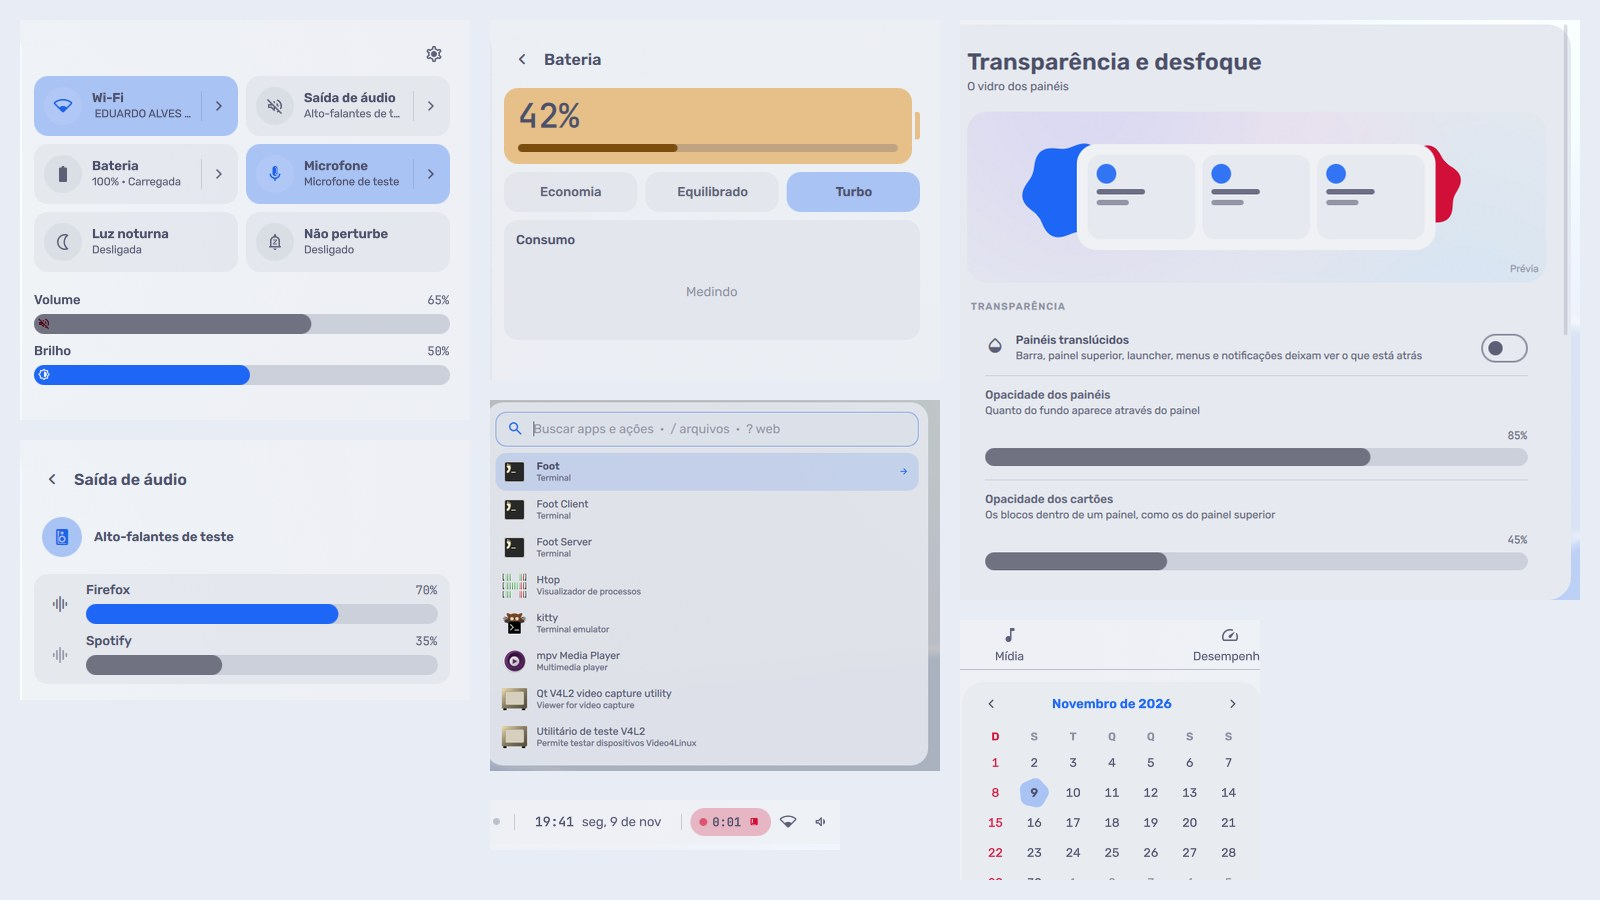
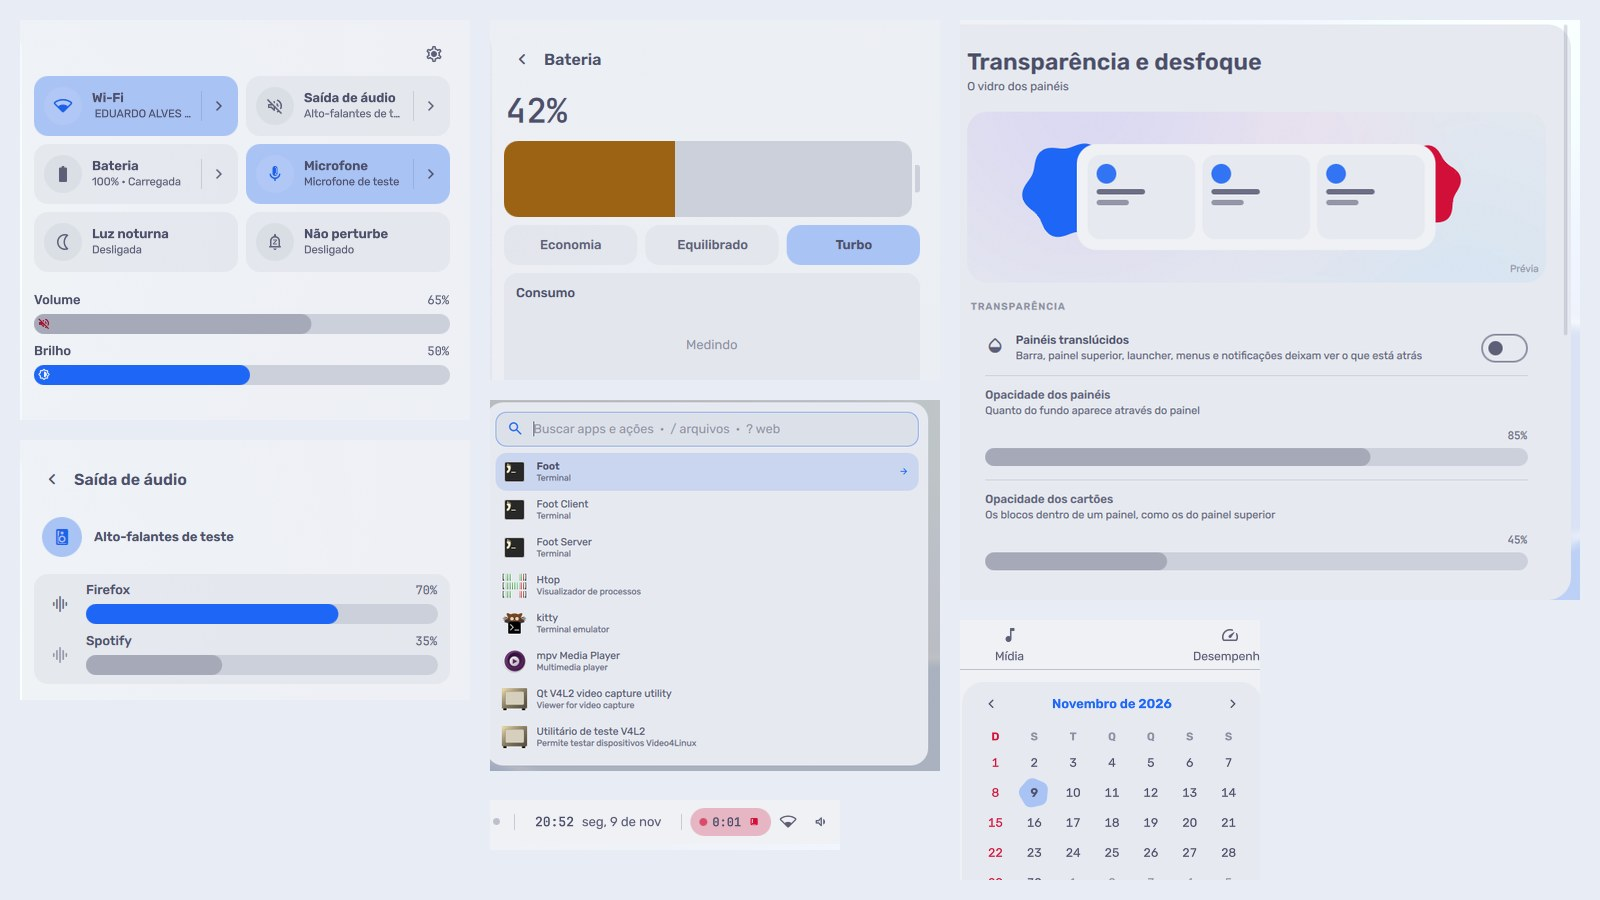
Cores: as capturas e as Pendências depois dos ajustes da bateria, do mudo, do everforest e da linha desativada

diff --git a/Lucerna — Pendências.md b/Lucerna — Pendências.md
@@ -24,7 +24,7 @@ Os marcos seguem esta ordem; cada um só começa quando o anterior fecha. Os ite
     - [ ] A **barra em repouso desfocando a tela inteira** na bateria ("Sobras do desfoque" e "Sobras dos painéis da moldura").
     - [x] A **borda borrada em escala fracionária.** Feito na base robusta (Tarefa 12, branch `feat/base-robusta`): a suavização do `frame.frag` por `fwidth`, as beiras ao pixel físico e as linhas de 1 px como `Pixel.hairline`; depois, a escala interna do shell pelas medidas do tema (Tarefa 13). Detalhes em "Sobras dos painéis da moldura".
     - [ ] O **painel superior parado redesenhando a ~67 fps** ("Sobras do desfoque" e "Sobras dos painéis da moldura").
-  - [x] **Cores dos blocos ativos** (decisão do usuário, 2026-11-04; logo depois da base robusta): na central, os blocos ligados (Wi-Fi, Bluetooth) e os sliders mostram texto preto sobre a cor de destaque, e o Volume desativado fica cinza sobre azul, quase ilegível; acontece em quase todos os temas. Usar um tom escuro do destaque ("primary container" do Material 3, calculado a partir do destaque de cada tema), texto claro e o ícone na cor de destaque; nos temas claros, o inverso (fundo claro tingido, texto escuro). No molde do modelo de cores ampliado do item 17, que depois o absorve. Conferir nos 12 temas com capturas. P Feito na branch `feat/cores-barras` (spec `docs/superpowers/specs/2026-11-06-cores-barras-design.md`): tokens novos no `ThemeManager`, calculados do destaque de cada tema e sobrescrevíveis pelo JSON (`accentContainer`, `onAccentContainer`, `accentIcon`, `accentFill`, `track`, e `container()`/`onContainer()`/`containerIcon()` para as cores de estado), com texto a ≥ 4,5:1 e ícone e preenchimento a ≥ 3:1 testados nos 12 temas (`tests/theme.test.js`). A regra: superfície grande com texto vai para o contêiner (botões ativos, blocos da central, botões primários, itens selecionados, dia de hoje, pílula de gravação, cartão da bateria, agora com uma barra de 8 px dentro); indicador pequeno sem texto continua no destaque cheio; véu translúcido com texto usa `text`. **A barra única:** o `core/widgets/LevelSlider.qml` substitui o `PillSlider` da central e o `Slider` das Configurações (central, volume por app, entrada de áudio e todas as páginas): nome e valor numa linha acima, barra de 20 px arredondada com ícone opcional dentro, cresce ao passar o mouse e ao arrastar, sem alça nem balão; mudo e desativado com preenchimento cinza e ícone em `danger`, sem opacidade sobre o texto (o `SettingRow.dimmed` deixou de apagar o rótulo). Capturas antes/depois nos 12 temas em `docs/screenshots/cores-barras/`; sobras em "Sobras das cores e das barras".
+  - [x] **Cores dos blocos ativos** (decisão do usuário, 2026-11-04; logo depois da base robusta): na central, os blocos ligados (Wi-Fi, Bluetooth) e os sliders mostram texto preto sobre a cor de destaque, e o Volume desativado fica cinza sobre azul, quase ilegível; acontece em quase todos os temas. Usar um tom escuro do destaque ("primary container" do Material 3, calculado a partir do destaque de cada tema), texto claro e o ícone na cor de destaque; nos temas claros, o inverso (fundo claro tingido, texto escuro). No molde do modelo de cores ampliado do item 17, que depois o absorve. Conferir nos 12 temas com capturas. P Feito na branch `feat/cores-barras` (spec `docs/superpowers/specs/2026-11-06-cores-barras-design.md`): tokens novos no `ThemeManager`, calculados do destaque de cada tema e sobrescrevíveis pelo JSON (`accentContainer`, `onAccentContainer`, `accentIcon`, `accentFill`, `track`, e `container()`/`onContainer()`/`containerIcon()` para as cores de estado), com texto a ≥ 4,5:1 e ícone e preenchimento a ≥ 3:1 testados nos 12 temas (`tests/theme.test.js`). A regra: superfície grande com texto vai para o contêiner (botões ativos, blocos da central, botões primários, itens selecionados, dia de hoje, pílula de gravação); indicador pequeno sem texto continua no destaque cheio; o cartão da bateria continua sendo o próprio desenho preenchido pela carga (o trilho, com a parte cheia na cor do estado a 3:1 dele), agora com a porcentagem e o tempo numa linha acima, sem texto sobre o desenho; véu translúcido com texto usa `text`. **A barra única:** o `core/widgets/LevelSlider.qml` substitui o `PillSlider` da central e o `Slider` das Configurações (central, volume por app, entrada de áudio e todas as páginas): nome e valor numa linha acima, barra de 20 px arredondada com ícone opcional dentro, cresce ao passar o mouse e ao arrastar, sem alça nem balão; mudo e desativado com preenchimento cinza (nos temas claros, um cinza leve a 1,5:1 do trilho) e ícone em `danger` a 3,5:1 dele, sem opacidade sobre o texto (a linha `dimmed` das Configurações põe título e descrição num tom apagado que ainda fica a 4,5:1). O everforest define o próprio `accentContainer` (o calculado saía quase cinza). Capturas antes/depois nos 12 temas em `docs/screenshots/cores-barras/`; sobras em "Sobras das cores e das barras".
   - [ ] **Testes ponta a ponta** (começa pelo brainstorming → spec → plano; entra depois da base robusta e do PR das cores/barras, antes do greeter, para que greeter, integrações e a troca já nasçam cobertos). **Hoje:** a fumaça do CI (`ci/smoke.sh`, sway headless) já roda shell e lucernad reais, abre painéis por `qs ipc`, clica com `ci/vclick.py` e confere efeitos; o lucernad (`crates/lucernad/tests/process.rs`) e o lucerna-hello (`apps/lucerna-hello/tests/process.rs`) testam processo real com a outra ponta falsa (`FakeShell`). **Lacunas:** nenhum teste junta app do SDK, lucernad e shell reais; sem teclado real, atalhos nem config Lua do Hyprland; `lucerna-session` e supervisor sem teste automático (só o `dev/test.sh` manual); sem fluxos completos de usuário (abrir o lançador, digitar, escolher, conferir que o app abriu); capturas sem comparação automática. **Proposta em camadas:** (1) CI: a fumaça vira E2E, com teclado virtual, fluxos de usuário roteirizados e o lucerna-hello junto do lucernad e do shell; (2) local, no Hyprland do container (`dev/test.sh headless`): roteiro automatizado com asserções para atalhos com Super, config Lua, supervisor e, depois, greeter e bloqueio; (3) por último, comparação visual com referência por tema (a mais frágil). **Restrição:** os testes não tocam hardware, o D-Bus do host, a sessão real (KDE) nem o `~/.config` real.
 - [ ] **Marco 2: greeter próprio.** greetd com um greeter em Quickshell **no mesmo repositório**, no lugar do SDDM; passa por brainstorming, spec e desenho estático antes de qualquer código. G
   - [ ] **Mesmo visual do shell:** o design do shell, o papel de parede e o fundo animado, e uma **troca animada e rápida para a sessão, sem corte**. A **tela de bloqueio e o greeter são o mesmo componente.**
@@ -245,22 +245,26 @@ Da branch `feat/cores-barras` (ledger das Tarefas 1 a 3 e a conferência visual 
 - [ ] **Desativado ainda por opacidade em outros controles:** o `Clickable` (0,4) e o `DetailsPanel` (0,45) derrubam o texto abaixo de 4,5:1 (pré-existente); os outros 22 usos do `dimmed` ainda põem opacidade 0,45 no controle (`SegmentedControl`/`Select` com texto); a seção "Horário" da Luz noturna fica a 0,55 e o `BindEditor` a 0,45. Levar todos à regra da barra: o controle mostra o próprio desativado, sem opacidade sobre o texto.
 - [ ] **O mudo da barra não recebe foco pelo Tab** e a barra não tem anel de foco visível.
 - [ ] **O alvo de clique do mudo (32 px) cobre os ~26 px iniciais da barra:** um clique ali silencia em vez de levar o valor ao começo. E o `iconTarget` não depende do `root.enabled`.
-- [ ] **A linha desativada nas Configurações quase não se distingue da ativa** (conferência visual): sem a opacidade, o rótulo fica com o contraste cheio, e o desativado aparece só no preenchimento cinza da barra. Decidir se o rótulo vai para `textMuted` em todas as páginas.
+- [x] **A linha desativada nas Configurações quase não se distinguia da ativa** (conferência visual). Resolvido: título e descrição vão ao `ThemeManager.dimmedOn(textMuted, raised)`, o tom mais apagado que ainda fica a 4,5:1 do cartão.
+- [ ] **O `textMuted` do everforest (3,86:1) e do rose-pine-dawn (3,67:1) fica abaixo de 4,5:1 contra o `raised`** (pré-existente; o fundo real dos cartões é translúcido e costuma dar mais). Nesses dois, a linha desativada fica no próprio `textMuted`; acertar a paleta deles.
 
 **Cores**
 - [ ] **O `container()`/`onContainer()` partem do `base`/`text` animados** durante a troca de tema: as cores de estado passam por tons intermediários por um instante (só visual).
 - [ ] **A tabela de cores dos temas está copiada no `tests/theme.test.js`** e pode desatualizar; trocar por um teste que compare com o `T.data.colors` de cada JSON.
 - [ ] **Folga de contraste pequena** (4,50 a 4,6) no texto sobre o contêiner: consequência da escolha de "o máximo de cor que ainda passa".
 - [ ] **O `iconOn` e o `fillOf` repetem o laço rumo ao extremo** (o `towardContrast` já junta parte; terminar a unificação).
-- [ ] **A fórmula da barra do cartão da bateria** está no componente e reimplementada no teste: mover para o `ThemeManager` (um `levelColors` para contêiner); o `band` da `BatteryPage` repete as comparações de matiz.
+- [ ] **O `band` da `BatteryPage`** repete as comparações do estado (a escolha da cor está no componente e o teste a refaz).
 - [ ] **O teste do hover usa `mix`** em vez da composição alfa (equivalente para cores opacas).
 - [ ] **O comentário do `Tile.qml` (linhas 45–46)** diz "3:1 do contêiner", mas o teste garante o ícone contra o círculo.
 
 **Para o usuário decidir nas capturas** (conferência visual da Tarefa 4; detalhes no relatório da tarefa)
-- [ ] O ícone de 14 px dentro da barra de 20 px: legível, mas pequeno; o do mudo, vermelho-escuro sobre o cinza, quase não se lê como vermelho (pior no catppuccin-latte, perto do 3:1).
-- [ ] O preenchimento do mudo nos temas claros é um cinza escuro, mais pesado que a barra ativa.
-- [ ] Nos temas escuros, a barra de 8 px dentro do cartão da bateria sai quase branca (o `iconOn` clareia a cor do estado até 3:1 e o matiz some); os ícones sobre o contêiner ficam mais claros que o destaque, mas mantêm a cor.
-- [ ] O contêiner no everforest fica um verde-oliva acinzentado (o destaque já é pouco saturado) e, no matte-black, cinza (o destaque do tema é cinza, `#d0d0d0`): coerentes com o destaque, mas com pouca cor.
+- [ ] O ícone de 14 px dentro da barra de 20 px: legível, mas pequeno.
+- [x] O ícone do mudo, vermelho-escuro sobre o cinza, quase não se lia como vermelho (pior no catppuccin-latte, perto do 3:1). Resolvido: a 3,5:1 do cinza e, nos claros, sobre um cinza leve, onde fica vermelho de verdade.
+- [x] O preenchimento do mudo nos temas claros era um cinza escuro, mais pesado que a barra ativa. Resolvido: nos claros, o trilho levado rumo ao `textFaint` só até 1,5:1 (o 3:1 o deixaria mais escuro que o próprio `textFaint`; o mudo também se lê pelo ícone e pelo nome e valor).
+- [x] O cartão da bateria com uma barra de 8 px dentro (quase branca nos escuros) e o cartão inteiro vermelho-escuro com bateria baixa. Resolvido (decisão do usuário): o desenho volta a ser preenchido pela carga, com a porcentagem fora dele; só o preenchimento fica vermelho.
+- [ ] Os ícones sobre o contêiner ficam mais claros (escuros) ou mais escuros (claros) que o destaque, mas mantêm a cor.
+- [x] O contêiner no everforest saía um verde-oliva acinzentado. Resolvido: o tema define `accentContainer` `#445936` (texto a 4,56:1).
+- [ ] No matte-black o contêiner é cinza (o destaque do tema é cinza, `#d0d0d0`): coerente, mas sem cor.
 
 ## Depois
 
